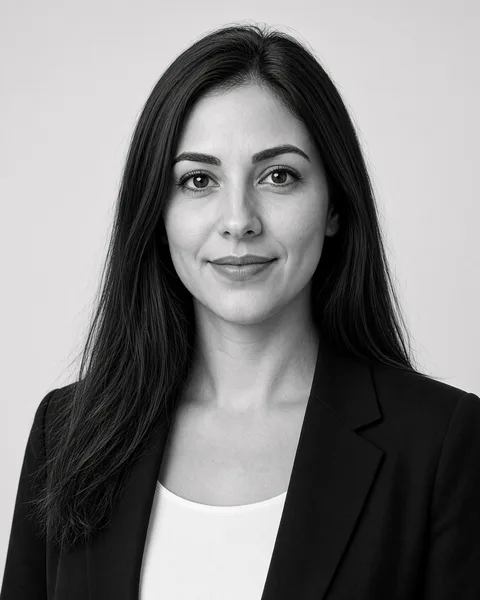
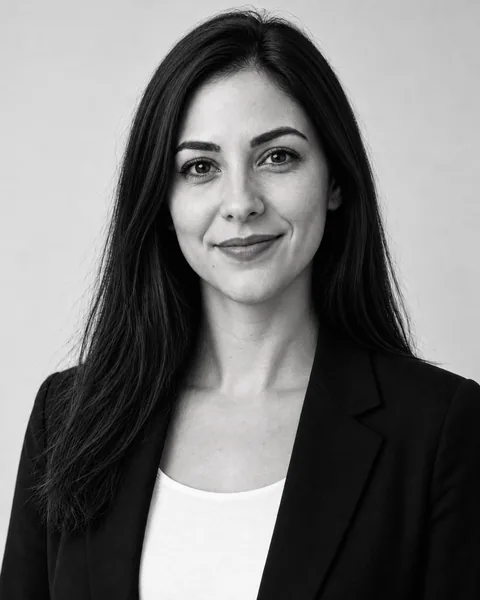
Add photos for Amelia and Daniel, refresh Thomas and Elena (#12)
* Replace the site with the redesign

The redesigned Shiel Accountants site, built and reviewed in SGTESTONLY
(quillow.uk), now ships from this repository so the existing shiel-ltd
Worker and its domains serve it unchanged.

- Static Next.js export served from Workers static assets.
- npm run build produces the indexable production build and runs the
  link, metadata and old-URL checks; build:preview stays noindex.
- Every address from the previous site resolves or 301s to its new page.
- CI drops the old package test, which no longer exists.
- The previous site is kept on backup/pre-redesign-2026-10-29.

Claude-Session: https://claude.ai/code/session_017FerompTG8cWzJcskiNgeM

* Show the client result graphics on desktop

Same change as SGTESTONLY#32: the four client result images replace the
text cards on desktop, in one row at about 240px wide; phones keep the
swipeable text cards.

Claude-Session: https://claude.ai/code/session_017FerompTG8cWzJcskiNgeM

* Add photos for Amelia and Daniel, refresh Thomas and Elena

Same change as SGTESTONLY#33: all five people have portraits in one
centred grid, Victoria keeps her photo, and swipeable rows position their
cards so off-screen screen-reader labels can't widen the page on phones.

Claude-Session: https://claude.ai/code/session_017FerompTG8cWzJcskiNgeM

---------

Changed region(s): [[0.0, 0.0, 1.0, 0.99], [0.5312, 0.93, 0.5625, 1.0], [0.1562, 0.87, 0.1875, 0.9]]

diff --git a/lib/content.ts b/lib/content.ts
@@ -682,8 +682,8 @@ export type Person = { slug: string; name: string; role: string; bio: string; sp
 export const team: Person[] = [
   { slug: 'thomas-langford', name: 'Thomas Langford', role: 'Managing Partner', bio: 'Thomas leads strategic tax planning and advice on more complex structures. He keeps the wider client position in view and oversees the quality review of our work.', specialties: ['Strategic tax planning', 'Complex structures', 'Client advice', 'Quality review'], countries: ['Ireland', 'United Kingdom', 'Gibraltar'], photo: '/team/thomas-langford.webp' },
   { slug: 'victoria-locke', name: 'Victoria Locke', role: 'Senior Tax Consultant', bio: 'Victoria supports Irish businesses and individuals with corporation tax, personal tax and self-assessment, including VAT, RCT and the reliefs and exemptions that apply to each client.', specialties: ['Irish corporation tax', 'Personal tax', 'VAT', 'RCT', 'Irish reliefs'], countries: ['Ireland'], photo: '/team/victoria-locke.webp' },
-  { slug: 'amelia-fraser', name: 'Amelia Fraser', role: 'Junior Tax Consultant', bio: 'Amelia works on the detail behind corporate tax decisions, from elections and reliefs to group structures and timing, with a particular focus on Gibraltar and cross-border planning.', specialties: ['Corporate elections and reliefs', 'Group structures', 'Gibraltar tax', 'Cross-border tax'], countries: ['Gibraltar', 'United Kingdom'] },
-  { slug: 'daniel-brooks', name: 'Daniel Brooks', role: 'Tax Advisor', bio: 'Daniel helps individuals and businesses with personal and corporate tax compliance and planning, and with understanding the reliefs that apply to their position.', specialties: ['Personal tax', 'Corporate tax', 'Tax planning', 'Reliefs and exemptions'], countries: ['United Kingdom', 'Ireland'] },
+  { slug: 'amelia-fraser', name: 'Amelia Fraser', role: 'Junior Tax Consultant', bio: 'Amelia works on the detail behind corporate tax decisions, from elections and reliefs to group structures and timing, with a particular focus on Gibraltar and cross-border planning.', specialties: ['Corporate elections and reliefs', 'Group structures', 'Gibraltar tax', 'Cross-border tax'], countries: ['Gibraltar', 'United Kingdom'], photo: '/team/amelia-fraser.webp' },
+  { slug: 'daniel-brooks', name: 'Daniel Brooks', role: 'Tax Advisor', bio: 'Daniel helps individuals and businesses with personal and corporate tax compliance and planning, and with understanding the reliefs that apply to their position.', specialties: ['Personal tax', 'Corporate tax', 'Tax planning', 'Reliefs and exemptions'], countries: ['United Kingdom', 'Ireland'], photo: '/team/daniel-brooks.webp' },
   { slug: 'elena-rossi', name: 'Elena Rossi', role: 'Accounts and Compliance Manager', bio: 'Elena brings together the records, reporting and filings that keep accounts in order, from day-to-day bookkeeping and management accounts to VAT and annual filings.', specialties: ['Bookkeeping', 'Management accounts', 'VAT compliance', 'Annual filings'], countries: ['Ireland', 'United Kingdom', 'Gibraltar'], photo: '/team/elena-rossi.webp' },
 ];
 

diff --git a/app/about/team/page.tsx b/app/about/team/page.tsx
@@ -58,9 +58,9 @@ export default function Page() {
         }
       />
       <Section>
-        <ul className="rail sm:mx-0 sm:grid sm:grid-flow-row sm:grid-cols-2 sm:gap-6 sm:overflow-visible sm:px-0 lg:grid-cols-3" role="region" aria-label="Team, swipe for more" tabIndex={0}>
+        <ul className="rail sm:mx-0 sm:flex sm:flex-wrap sm:justify-center sm:gap-6 sm:overflow-visible sm:px-0" role="region" aria-label="Team, swipe for more" tabIndex={0}>
           {team.filter((t) => t.photo).map((t) => (
-            <li key={t.slug} id={t.slug} className="w-[80vw] max-w-sm shrink-0 scroll-mt-24 sm:w-auto sm:max-w-none">
+            <li key={t.slug} id={t.slug} className="w-[80vw] max-w-sm shrink-0 scroll-mt-24 sm:w-[calc((100%-1.5rem)/2)] sm:max-w-none lg:w-[calc((100%-3rem)/3)]">
               <article className="card flex h-full flex-col overflow-hidden">
                 <Avatar person={t} className="aspect-[4/3] w-full sm:aspect-[4/5]" eager />
                 <div className="flex flex-1 flex-col p-5 sm:p-6">
@@ -70,6 +70,7 @@ export default function Page() {
             </li>
           ))}
         </ul>
+        {team.some((t) => !t.photo) && (
         <ul className="mt-4 grid gap-3 sm:mt-6 sm:gap-6 lg:grid-cols-2">
           {team.filter((t) => !t.photo).map((t) => (
             <li key={t.slug} id={t.slug} className="reveal scroll-mt-24">
@@ -82,6 +83,7 @@ export default function Page() {
             </li>
           ))}
         </ul>
+        )}
       </Section>
       <Section tone="muted" label="How we work together">
         <SectionHead title="How We Work" lead="Bookkeeping, reporting and tax decisions all describe the same business, so the people working on them talk to each other." />

diff --git a/app/globals.css b/app/globals.css
@@ -339,7 +339,8 @@
   overscroll-behavior-x: contain;
 }
 .rail::-webkit-scrollbar { display: none; }
-.rail > * { scroll-snap-align: start; }
+/* Keeps hidden screen-reader labels inside their card, so off-screen cards can't widen the page. */
+.rail > * { scroll-snap-align: start; position: relative; }
 
 .marquee { mask-image: linear-gradient(90deg, transparent, #000 8%, #000 92%, transparent); }
 .marquee-track { display: flex; width: max-content; animation: marquee 38s linear infinite; }
